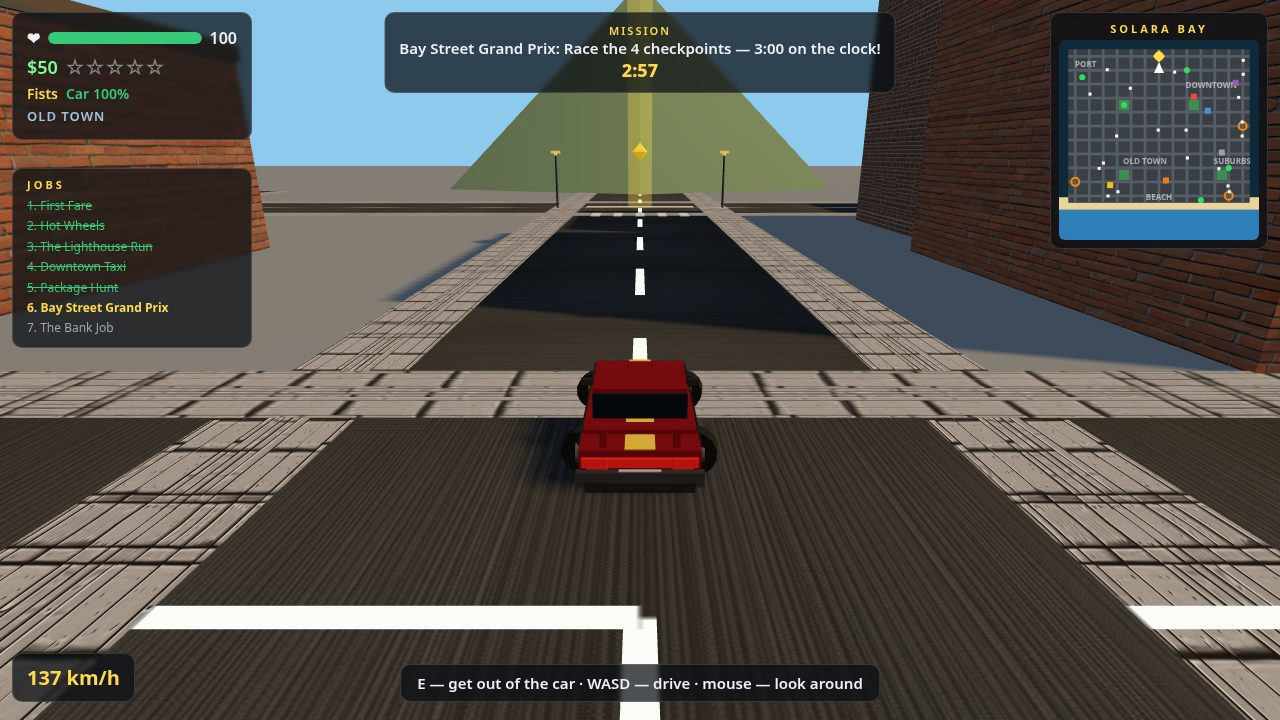
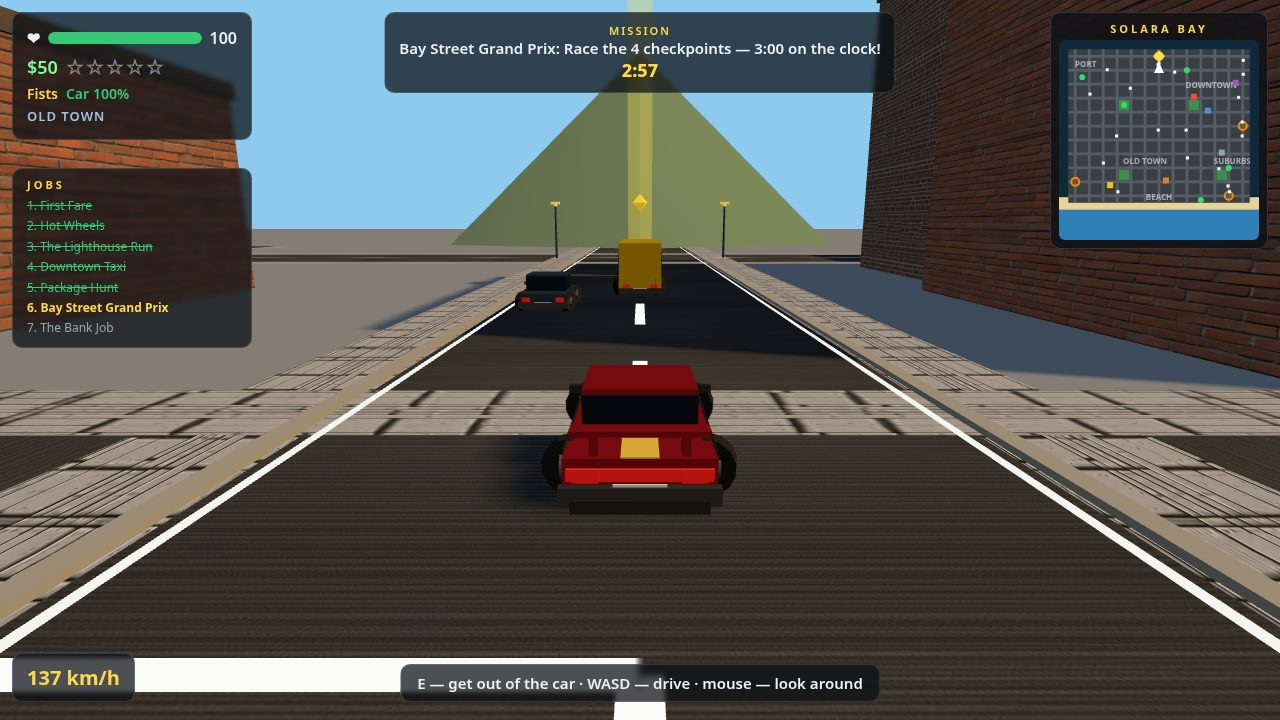
Fix shot issues: bolder guardrail bars, chase drives 1.5s (van beside guardrail) + flanking cop cars + heli closer, gunfight hides wanted toast, race rivals closer + lower camera

diff --git a/game/src/shots.js b/game/src/shots.js
@@ -53,7 +53,7 @@ function stageChase(game) {
   van.stolen = true;
   enterCar(game, van);
   game.police.state.wanted = 4;
-  const tailSpots = [[243, -48], [237, -32], [243, -16], [237, 0]];
+  const tailSpots = [[237, -62], [243, -72], [237, -82], [243, -92]];
   for (const [x, z] of tailSpots) {
     const pc = spawnPoliceCar(game);
     pc.pos.set(x, 0, z);
@@ -64,12 +64,12 @@ function stageChase(game) {
     game.police.state.cars.push(pc);
   }
   cameraBehind(game);
-  driveFor(game, 2.2, (g) => steerCarToward(g, 243, -360));
+  driveFor(game, 1.5, (g) => steerCarToward(g, 243, -360));
   game.camDist = 14;
   game.camPitch = 0.28;
   const heli = game.police.heli;
   if (heli) {
-    heli.position.set(game.player.car.pos.x + 8, 10, game.player.car.pos.z - 14);
+    heli.position.set(game.player.car.pos.x + 5, 10, game.player.car.pos.z - 8);
   }
   game.hud.hideToast();
   game.hud.hideMissionCard();
@@ -94,6 +94,7 @@ function stageGunfight(game) {
   game.camDist = 8;
   game.input.fireAction(ACTION_SHOOT);
   game.step(STEP);
+  game.hud.hideToast();
   game.hud.hideMissionCard();
 }
 function stageDowntown(game) {
@@ -147,16 +148,16 @@ function stageRace(game) {
   const cx = game.player.car.pos.x;
   const cz = game.player.car.pos.z;
   const rivals = game.cars.traffic.slice(0, 2);
-  rivals[0].pos.set(cx, 0, cz - 25);
+  rivals[0].pos.set(cx, 0, cz - 12);
   rivals[0].heading = Math.PI / 2;
   rivals[0].mesh.position.copy(rivals[0].pos);
   rivals[0].mesh.rotation.y = rivals[0].heading;
-  rivals[1].pos.set(cx - 4, 0, cz - 18);
+  rivals[1].pos.set(cx - 4, 0, cz - 16);
   rivals[1].heading = Math.PI / 2;
   rivals[1].mesh.position.copy(rivals[1].pos);
   rivals[1].mesh.rotation.y = rivals[1].heading;
-  game.camDist = 7;
-  game.camPitch = 0.22;
+  game.camDist = 6;
+  game.camPitch = 0.18;
   game.hud.hideMissionCard();
 }
 export const SHOT_ORDER = ['chase', 'gunfight', 'downtown', 'race'];

diff --git a/game/src/city.js b/game/src/city.js
@@ -413,7 +413,7 @@ export function buildCity(scene, rng, textures = {}) {
   const cv=(w,h,f)=>{const c=document.createElement('canvas');c.width=w;c.height=h;f(c.getContext('2d'));const t=new THREE.CanvasTexture(c);t.colorSpace=THREE.SRGBColorSpace;t.wrapS=THREE.RepeatWrapping;t.wrapT=THREE.RepeatWrapping;return t;};
   const zebra=cv(128,64,(x)=>{x.fillStyle='#f5f5f0';for(let i=0;i<6;i++)x.fillRect(8+i*20,4,10,42);x.fillRect(0,54,128,8);});
   const arrow=cv(64,64,(x)=>{x.fillStyle='#f5f5f0';x.fillRect(26,34,12,26);x.beginPath();x.moveTo(32,4);x.lineTo(52,30);x.lineTo(12,30);x.closePath();x.fill();});
-  const railT=cv(64,32,(x)=>{x.fillStyle='#d8dde2';for(let i=0;i<8;i++)x.fillRect(2+i*8,0,3,32);x.fillRect(0,0,64,3);x.fillRect(0,29,64,3);});
+  const railT=cv(64,32,(x)=>{x.fillStyle='rgba(200,205,212,0.45)';x.fillRect(0,0,64,32);x.fillStyle='#3a3e44';for(let i=0;i<8;i++)x.fillRect(1+i*8,0,6,32);x.fillStyle='#2c2f34';x.fillRect(0,0,64,5);x.fillRect(0,27,64,5);});
   const flat=(w,d,m,x,z,rz=0,y=0.08)=>{const p=new THREE.Mesh(new THREE.PlaneGeometry(w,d),m);p.rotation.x=-Math.PI/2;p.rotation.z=rz;p.position.set(x,y,z);scene.add(p);};
   const zebraM=new THREE.MeshBasicMaterial({map:zebra,transparent:true});
   const arrowM=new THREE.MeshBasicMaterial({map:arrow,transparent:true});
